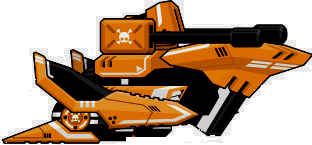
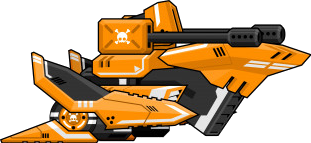
mejora el boss final

diff --git a/src/server/models/MapElement.cpp b/src/server/models/MapElement.cpp
@@ -28,7 +28,7 @@ MapElement::MapElement(elementType_t type, position_t position_, int x_speed, in
         this->damage_ = DAMAGE_ENEMY_2;
         this->scoreWhenKilled_ = SCORE_KILLED_ENEMY_2;
 
-    } else if(type == PROJECTILE){
+    } else if(type == PROJECTILE || type == PROJECTILE_BOSS){
         ProjectileIA* proyectileIA = new ProjectileIA();
         addAction("ProjectileIA", proyectileIA);
         this->damage_ = 0;
@@ -57,11 +57,11 @@ void MapElement::setTarget(MapElement* target) {
         enemyia->setTarget(target);
     }
 
-    if (type == BOSS_ENEMY)
+    if (type == BOSS_ENEMY && target->getLives() != 0) 
         this->getAction<BossIA>("BossIA")->addTarget(target);
 
 
-    if (type == PROJECTILE)
+    if (type == PROJECTILE || type == PROJECTILE_BOSS)
         this->getAction<ProjectileIA>("ProjectileIA")->setOwn(target);
 
 }
@@ -381,7 +381,8 @@ void MapElement::shoot(){
     projectile_t projectileData = GameProvider::getConfig()->getProjectileData();
 
     if (this->type == BOSS_ENEMY){
-        this->shootBoss(projectileData);
+        projectile_t projectileBossData = GameProvider::getConfig()->getProjectileBossData();
+        this->shootBoss(projectileBossData);
         return;
     }
 
@@ -419,7 +420,7 @@ void MapElement::shootBoss(projectile_t projectileData){
     position_t middlePosition = position;
     middlePosition.axis_x = positionXProjectil;
     middlePosition.axis_y = position.axis_y + (this->size_y_ / 4); 
-    MapElement *middleProjetil = new MapElement(PROJECTILE, middlePosition, 6, 6, projectileData.size_x, projectileData.size_y, 10, 1);
+    MapElement *middleProjetil = new MapElement(PROJECTILE_BOSS, middlePosition, 6, 6, projectileData.size_x, projectileData.size_y, 10, 1);
     this->projectiles_.emplace(this->projectileKey_ ,middleProjetil);
     this->projectileKey_++;
     middleProjetil->setTarget(this);
@@ -427,7 +428,7 @@ void MapElement::shootBoss(projectile_t projectileData){
     position_t topPosition = position;
     topPosition.axis_x = positionXProjectil;
     topPosition.axis_y = position.axis_y + (this->size_y_ / 2); 
-    MapElement *topProjetil = new MapElement(PROJECTILE, topPosition, 6, 6, projectileData.size_x, projectileData.size_y, 10, 1);
+    MapElement *topProjetil = new MapElement(PROJECTILE_BOSS, topPosition, 6, 6, projectileData.size_x, projectileData.size_y, 10, 1);
     this->projectiles_.emplace(this->projectileKey_ ,topProjetil);
     this->projectileKey_++;
     topProjetil->setTarget(this);
@@ -435,7 +436,7 @@ void MapElement::shootBoss(projectile_t projectileData){
     position_t bottomPosition = position;
     bottomPosition.axis_x = positionXProjectil;
     bottomPosition.axis_y = position.axis_y + 3 * (this->size_y_ / 4); 
-    MapElement *bottomProjetil = new MapElement(PROJECTILE, bottomPosition, 6, 6, projectileData.size_x, projectileData.size_y, 10, 1);
+    MapElement *bottomProjetil = new MapElement(PROJECTILE_BOSS, bottomPosition, 6, 6, projectileData.size_x, projectileData.size_y, 10, 1);
     this->projectiles_.emplace(this->projectileKey_ ,bottomProjetil);
     this->projectileKey_++;
     bottomProjetil->setTarget(this);

diff --git a/src/common/services/ConfigurationHandler.cpp b/src/common/services/ConfigurationHandler.cpp
@@ -497,6 +497,9 @@ void ConfigurationHandler::initializeDataServer(){
     this->gameData.commonProjectile = commonProjectile;
 
     Logger::getInstance()->log(DEBUG, "Se comienza a analizar la configuracion del enemigo final.");
+
+    projectile_t bossProjectile = getBossProjectile();
+    this->gameData.bossProjectile = bossProjectile;
     
     enemy_t finalBoss = getBoss();
     this->gameData.finalBoss = finalBoss;
@@ -621,6 +624,9 @@ void ConfigurationHandler::initializeDataClient(){
     this->gameData.commonProjectile = commonProjectile;
 
     Logger::getInstance()->log(DEBUG, "Se comienza a analizar la configuracion del enemigo final.");
+
+    projectile_t bossProjectile = getBossProjectile();
+    this->gameData.bossProjectile = bossProjectile;
     
     enemy_t finalBoss = getBoss();
     this->gameData.finalBoss = finalBoss;
@@ -733,6 +739,52 @@ string ConfigurationHandler::getPathCommonProjectile(string paramProjectile){
     return PATH_ROJECTILE + paramProjectile;
 }
 
+string ConfigurationHandler::getPathBossProjectile(string paramProjectile){
+    return PATH_ROJECTILE_BOSS + paramProjectile;
+}
+
+projectile_t ConfigurationHandler::getBossProjectile(){
+
+    projectile_t oneProjectile;
+
+    unsigned int sizeScreenX = GameProvider::getWidth();
+    unsigned int sizeScreenY = GameProvider::getHeight();
+
+    string pathProjectileSizeX = getPathBossProjectile("sizeX");
+    int sizeXProjectile = this->parserJson->getUnsignedInt(pathProjectileSizeX);
+
+    if (sizeXProjectile >= 0){
+        oneProjectile.size_x = sizeXProjectile;
+    } else {
+        oneProjectile.size_x = DEFAULT_SIZE_X;
+    }
+
+    if (sizeXProjectile > sizeScreenX){
+        Logger::getInstance()->log(ERROR, "El largo del proyectil supera el largo de la pantalla. Se settea este ultimo como su largo");
+        oneProjectile.size_x = sizeScreenX;
+    }
+
+    string pathProjectileSizeY = getPathBossProjectile("sizeY");
+    int sizeYProjectile = this->parserJson->getUnsignedInt(pathProjectileSizeY);
+    if (sizeYProjectile >= 0){
+        oneProjectile.size_y = sizeYProjectile;
+    } else {
+        oneProjectile.size_y = DEFAULT_SIZE_Y;
+    }
+
+    if (sizeYProjectile > sizeScreenY){
+        Logger::getInstance()->log(ERROR, "El ancho del proyectil supera el ancho de la pantalla. Se settea este ultimo como su ancho");
+        oneProjectile.size_y = sizeScreenY;
+    }   
+
+    if (!this->isServer_){
+        string pathProjectileSprite = getPathBossProjectile("sprite");
+        oneProjectile.sprite = this->parserJson->getString(pathProjectileSprite); 
+    }
+
+    return oneProjectile;    
+}
+
 projectile_t ConfigurationHandler::getCommonProjectile(){
 
     projectile_t oneProjectile;
@@ -777,4 +829,7 @@ projectile_t ConfigurationHandler::getCommonProjectile(){
 
 projectile_t ConfigurationHandler::getProjectileData(){
     return this->gameData.commonProjectile;
+}
+projectile_t ConfigurationHandler::getProjectileBossData(){
+    return this->gameData.bossProjectile;
 }

diff --git a/src/server/models/BossIA.cpp b/src/server/models/BossIA.cpp
@@ -23,14 +23,14 @@ void BossIA::update(unordered_map<string, State *> states_){
     int new_yp;
 
     // Si todavia no aparece completo en pantalla, se setea nueva posicion en X, si no no hace nada en el eje X
-    if (xp > (GameProvider::getWidth() - this->owner_->getSizeX() - 230)){
+    if (xp > (GameProvider::getWidth() - this->owner_->getSizeX() - 40)){
         new_xp = xp - xs;
         position->setX(new_xp);
     }
 
     new_yp = doMovement(yp, ys);
     
-    if (new_yp < 0) new_yp = 0;
+    if (new_yp < this->owner_->getSizeY()/2) new_yp = this->owner_->getSizeY()/2;
     if (new_yp > (screenHeight - this->owner_->getSizeY())) new_yp = screenHeight - this->owner_->getSizeY();
 
     position->setY(new_yp);
@@ -49,40 +49,47 @@ void BossIA::randomShoot(){
     {
        this->owner_->shoot();
        this->timeShoot = 0;
-       this->timeLimitShoot = 70 + RandomGenerate::generate(FRECUENCIA);
+       this->timeLimitShoot = 50 + RandomGenerate::generate(FRECUENCIA);
     }
 }
 
 int BossIA::doMovement(int yp, int ys){
 
-    if (RandomGenerate::generate(10) < 5)
+    //if (RandomGenerate::generate(10) < 5)
         return this->searchPlayers(yp, ys);
 
-    return this->randomMovement(yp, ys);
+    //return this->randomMovement(yp, ys);
 }
 
 int BossIA::searchPlayers(int yp, int ys){
+    //tal vez no deberia pasar nunca este caso
+    if (this->targets_.size() == 0) return yp;
     
-    if (this->targets_.size() == 0) return this->randomMovement(yp, ys);
-
     int sumPosY = 0,
+        nTargets = 0,
         avgPosY = GameProvider::getWidth() / 2,
         randomMovement = RandomGenerate::generate(5);
 
     for (auto onePlayer : this->targets_){
-        position_t position = onePlayer->getActualPosition();
-        sumPosY += position.axis_y;
+        if (onePlayer->getLives() != 0) {
+            position_t position = onePlayer->getActualPosition();
+            sumPosY += position.axis_y;
+            nTargets++;
+        }
     }
 
     if (sumPosY)
-        avgPosY = sumPosY / this->targets_.size();
+        avgPosY = sumPosY - (this->owner_->getSizeY()/2) / nTargets;
 
+    if (yp == avgPosY) return yp; //si ya esta centrado q no le agarre epilepsia
     if (yp < avgPosY)
-        return yp + randomMovement * ys;
+        return yp + ys;
 
-    return yp - randomMovement * ys;
+    return yp - ys;
 }
 
+
+//NO USAR
 int BossIA::randomMovement(int yp, int ys){
     
     unsigned int screenHeight = GameProvider::getHeight();

diff --git a/src/client/screenManager/graphics/GameGraphics.cpp b/src/client/screenManager/graphics/GameGraphics.cpp
@@ -37,8 +37,10 @@ void GameGraphics::createElements(){
 
     enemy_t finalBoss = GameProvider::getConfig()->getFinalBoss();
     projectile_t projectile = GameProvider::getConfig()->getProjectileData();
+    projectile_t projectileBoss = GameProvider::getConfig()->getProjectileBossData();
 
     string sourceProjectile = "assets/Projectile/projectile.png";
+    string sourceProjectileBoss = "assets/Projectile/projectileBoss.png";
     string sourceExplosionAnimation1 = "assets/Explosions/Explosion1/Explosion1.png";
     string sourceExplosionAnimation2 = "assets/Explosions/Explosion1/Explosion2.png";
     string sourceExplosionAnimation3 = "assets/Explosions/Explosion1/Explosion3.png";
@@ -63,6 +65,7 @@ void GameGraphics::createElements(){
     this->elements_[ENEMY_2] = new GraphicsMapElement(enemy2.sprite, enemy2.size_x, enemy2.size_y, 0, 0, FRONT);
     this->elements_[BOSS_ENEMY] = new GraphicsMapElement(finalBoss.sprite, finalBoss.size_x, finalBoss.size_y, 0, 0, FRONT);
     this->elements_[PROJECTILE] = new GraphicsMapElement(projectile.sprite, projectile.size_x, projectile.size_y, 0, 0, FRONT);
+    this->elements_[PROJECTILE_BOSS] = new GraphicsMapElement(projectileBoss.sprite, projectileBoss.size_x, projectileBoss.size_y, 0, 0, FRONT);
 
     this->elements_[EXPLOSION_ANIMATION_1] = new GraphicsMapElement(sourceExplosionAnimation1, GameProvider::getElementsSize(), GameProvider::getElementsSize(), 0, 0, FRONT);
     this->elements_[EXPLOSION_ANIMATION_2] = new GraphicsMapElement(sourceExplosionAnimation2, GameProvider::getElementsSize(), GameProvider::getElementsSize(), 0, 0, FRONT);

diff --git a/src/common/services/ConfigurationHandler.h b/src/common/services/ConfigurationHandler.h
@@ -19,6 +19,7 @@
 #define PATH_INFORMATION_SCREEN "/configuracion/informationScreen/"
 #define PATH_QUANTITY_PLAYERS "/configuracion/quantityPlayers"
 #define PATH_ROJECTILE "/configuracion/projectiles/"
+#define PATH_ROJECTILE_BOSS "/configuracion/projectilesBoss/"
 #define PATH_FINAL_BOSS "/configuracion/finalBoss/"
 
 #define DEFAULT_SIZE_X 110
@@ -75,7 +76,9 @@ class ConfigurationHandler {
         loginScreen_t readLoginScreen();
         
         string getPathCommonProjectile(string paramProjectile);
+        string getPathBossProjectile(string paramProjectile);
         projectile_t getCommonProjectile();
+        projectile_t getBossProjectile();
 
         string getPathFinalBoss(string paramBossEnemy);
         enemy_t getBoss();
@@ -101,6 +104,7 @@ class ConfigurationHandler {
         transitionScreen_t getTransitionScreenForStage(int oneStage);
         enemy_t getFinalBoss();
         projectile_t getProjectileData();
+        projectile_t getProjectileBossData();
 
 };
 

diff --git a/src/common/types.h b/src/common/types.h
@@ -160,6 +160,7 @@ typedef enum {
     PLAYER_2_G = 28,
     PLAYER_3_G = 29,
     PLAYER_4_G = 30,
+    PROJECTILE_BOSS = 31,
 } elementType_t;
 
 typedef enum {
@@ -279,6 +280,7 @@ typedef struct {
     vector<user_t> playersParams;
     loginScreen_t loginScreen;
     projectile_t commonProjectile;
+    projectile_t bossProjectile;
     enemy_t finalBoss;
 } gameParams_t;
 

diff --git a/src/server/models/BossIA.h b/src/server/models/BossIA.h
@@ -19,7 +19,7 @@ class BossIA: public MovementHandler {
 		unsigned long timeShoot;
 		unsigned long timeLimitShoot;
 
-		const unsigned long FRECUENCIA = 150;
+		const unsigned long FRECUENCIA = 100;
 
 		void randomShoot();
 		int doMovement(int yp, int ys);
